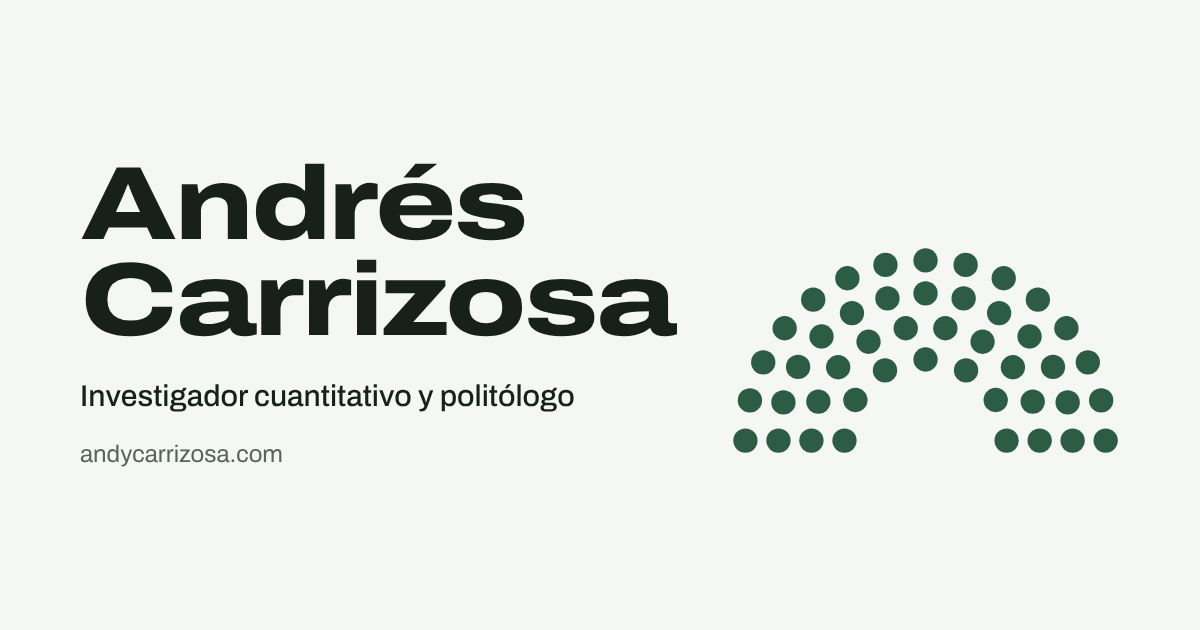
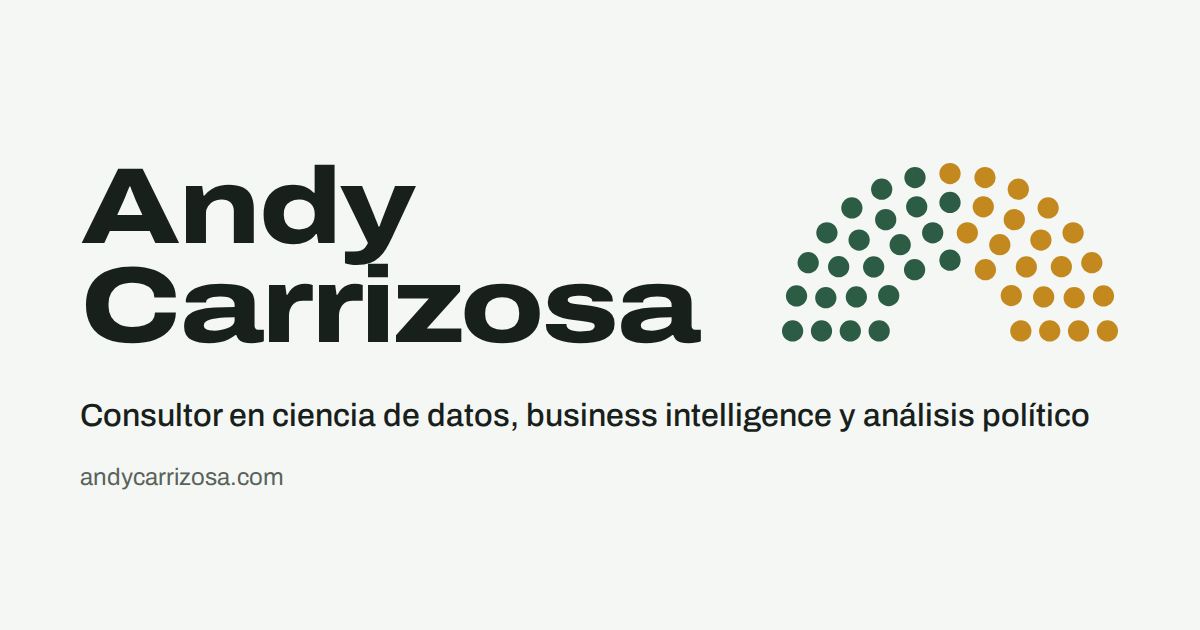
fix english landing as well

Changed region(s): [[0.0617, 0.2413, 0.9558, 0.7841], [0.0617, 0.2413, 0.5858, 0.5429]]

diff --git a/en/index.html b/en/index.html
@@ -4,7 +4,7 @@
   <meta charset="utf-8">
   <meta name="viewport" content="width=device-width, initial-scale=1">
   <title>Andy Carrizosa</title>
-  <meta name="description" content="Quantitative researcher and political scientist in Asunción. Data analysis, surveys and causal inference. Writes about parties, Congress and electoral rules in Paraguay.">
+  <meta name="description" content="Consultant in data science, business intelligence, and political analysis. Machine learning models for companies and data-driven legislative analysis.">
   <link rel="canonical" href="https://www.andycarrizosa.com/en/">
   <link rel="alternate" hreflang="en" href="https://www.andycarrizosa.com/en/">
   <link rel="alternate" hreflang="es" href="https://www.andycarrizosa.com/">
@@ -14,9 +14,9 @@
   <link rel="stylesheet" href="../assets/site.css">
   <meta property="og:type" content="profile">
   <meta property="og:title" content="Andy Carrizosa">
-  <meta property="og:description" content="Quantitative researcher and political scientist in Asunción. Blog, articles and publications on parties, Congress and electoral rules in Paraguay.">
+  <meta property="og:description" content="Consultant in data science, business intelligence, and political analysis. Machine learning models for companies and data-driven legislative analysis.">
   <meta property="og:url" content="https://www.andycarrizosa.com/en/">
-  <meta property="og:image" content="https://www.andycarrizosa.com/assets/og.png">
+  <meta property="og:image" content="https://www.andycarrizosa.com/assets/og-en.png">
   <meta property="og:locale" content="en_US">
   <meta name="twitter:card" content="summary_large_image">
   <script type="application/ld+json">
@@ -26,8 +26,7 @@
     "name": "Andy Carrizosa",
     "alternateName": "Andy Carrizosa",
     "url": "https://www.andycarrizosa.com/en/",
-    "jobTitle": "Quantitative Researcher",
-    "worksFor": { "@type": "Organization", "name": "ITTI" },
+    "jobTitle": "Consultant in data science, business intelligence, and political analysis",
     "address": { "@type": "PostalAddress", "addressLocality": "Asunción", "addressCountry": "PY" },
     "alumniOf": [
       { "@type": "CollegeOrUniversity", "name": "Rice University" },
@@ -43,7 +42,7 @@
   }
   </script>
 </head>
-<body>
+<body class="inicio">
   <a class="saltar" href="#content">Skip to content</a>
 
   <header class="envoltura cabecera">
@@ -62,7 +61,6 @@
       </a>
     </nav>
     <nav class="nav" aria-label="Main">
-      <a href="../en/index.html">Home</a>
       <a href="../publications.html">Academic Publications</a>
       <a href="EN_Carrizosa_Resume.pdf" target="_blank" rel="noopener">CV</a>
       <a href="../index.html" lang="es" hreflang="es">Español</a>
@@ -70,7 +68,7 @@
   </header>
 
   <main id="content">
-    <section class="envoltura portada" aria-labelledby="t-name">
+    <section class="envoltura portada portada-paneles" aria-labelledby="t-name">
       <h1 class="nombre" id="t-name"><span>Andy</span> <span>Carrizosa</span></h1>
       <figure class="hemiciclo">
         <svg viewBox="-216 -216 432 232" role="img" aria-labelledby="t-hemicycle">
@@ -124,13 +122,59 @@
       </figure>
       <script src="../assets/hemiciclo.js"></script>
       <div class="portada-texto">
-        <p class="rol">Data, politics, finance, and economics. Based in Asunción, Paraguay.</p>
-        <p class="entrada">I use data to tell stories. I am interested in politics, economics, and the financial system. I'm focused on analyzing Paraguay, the United States, and Latin America. I run <a href="../legislab/index.html">LegisLab</a>, a site focused on bringing together legislative data for the country and the region.</p>
-        <p class="entrada">I have a Ph.D. in Political Science from Rice University. I have private-sector experience in market research, financial research, user experience research, and Big Data analysis using Python, R, and SQL.</p>
-        <div class="acciones">
-          <a class="boton boton-principal" href="../blog.html" hreflang="es">News articles (Spanish)</a>
-          <a class="boton boton-secundario" href="../legislab/index.html">Data at LegisLab</a>
-        </div>
+        <p class="rol">Consultant in data science, business intelligence, and political analysis.</p>
+      </div>
+      <div class="paneles">
+        <section class="panel panel-datos" aria-labelledby="t-data">
+          <h2 id="t-data">Data science and business intelligence</h2>
+          <p class="panel-intro">I build machine learning models that learn from the past to anticipate what comes next.</p>
+          <ul class="areas">
+            <li class="area">
+              <svg class="area-icono" viewBox="0 0 60 46" aria-hidden="true" focusable="false"><circle cx="15.8" cy="4" r="3.75"/><circle cx="6.3" cy="7.1" r="3.75"/><circle cx="20.1" cy="14" r="3.75"/><circle cx="10.8" cy="15.8" r="3.75"/><circle class="ocre" cx="50" cy="7.7" r="3.75"/><circle class="ocre" cx="40.1" cy="9.6" r="3.75"/><circle class="ocre" cx="53.8" cy="17.7" r="3.75"/><circle class="ocre" cx="43.8" cy="19" r="3.75"/><circle class="hoja" cx="30.1" cy="30.9" r="3.75"/><circle class="hoja" cx="20.1" cy="33.3" r="3.75"/><circle class="hoja" cx="35.1" cy="40.1" r="3.75"/><circle class="hoja" cx="25.1" cy="42" r="3.75"/></svg>
+              <h3>Customer segmentation</h3>
+              <p class="pregunta">What groups of customers do I have?</p>
+            </li>
+            <li class="area">
+              <svg class="area-icono" viewBox="0 0 60 46" aria-hidden="true" focusable="false"><circle cx="3.8" cy="16" r="3.75"/><circle cx="13.8" cy="16" r="3.75"/><circle cx="23.8" cy="16" r="3.75"/><circle cx="33.8" cy="16" r="3.75"/><circle cx="3.8" cy="27.3" r="3.75"/><circle cx="13.8" cy="27.3" r="3.75"/><circle cx="23.8" cy="27.3" r="3.75"/><circle cx="33.8" cy="27.3" r="3.75"/><circle cx="3.8" cy="38.6" r="3.75"/><circle cx="13.8" cy="38.6" r="3.75"/><circle cx="23.8" cy="38.6" r="3.75"/><circle cx="33.8" cy="38.6" r="3.75"/><circle class="ocre" cx="46.3" cy="17.3" r="3.75"/><circle class="ocre" cx="56.2" cy="7.4" r="3.75"/></svg>
+              <h3>Customer churn</h3>
+              <p class="pregunta">Which customers are about to leave?</p>
+            </li>
+            <li class="area">
+              <svg class="area-icono" viewBox="0 0 60 46" aria-hidden="true" focusable="false"><circle cx="3.8" cy="38.6" r="3.75"/><circle cx="11.3" cy="34.8" r="3.75"/><circle cx="18.8" cy="36.2" r="3.75"/><circle cx="26.3" cy="28.6" r="3.75"/><circle cx="33.8" cy="26.1" r="3.75"/><circle class="ocre" cx="41.3" cy="19.9" r="3.75"/><circle class="ocre" cx="48.8" cy="14.9" r="3.75"/><circle class="ocre" cx="56.2" cy="7.4" r="3.75"/></svg>
+              <h3>Sales forecasting</h3>
+              <p class="pregunta">How much will I sell next month?</p>
+            </li>
+            <li class="area">
+              <svg class="area-icono" viewBox="0 0 60 46" aria-hidden="true" focusable="false"><circle cx="3.8" cy="10.9" r="3.75"/><circle cx="15" cy="10.9" r="3.75"/><circle cx="26.2" cy="10.9" r="3.75"/><circle cx="48.6" cy="10.9" r="3.75"/><circle cx="3.8" cy="26" r="3.75"/><circle cx="15" cy="26" r="3.75"/><circle cx="26.2" cy="26" r="3.75"/><circle cx="37.4" cy="26" r="3.75"/><circle cx="48.6" cy="26" r="3.75"/><circle cx="3.8" cy="41" r="3.75"/><circle cx="15" cy="41" r="3.75"/><circle cx="26.2" cy="41" r="3.75"/><circle cx="37.4" cy="41" r="3.75"/><circle cx="48.6" cy="41" r="3.75"/><circle class="ocre" cx="37.4" cy="6.6" r="5.3"/></svg>
+              <h3>Anomaly detection</h3>
+              <p class="pregunta">Which transactions look unusual?</p>
+            </li>
+          </ul>
+          <p class="panel-pie">Private-sector experience in market, financial, and user experience research. I&nbsp;use&nbsp;Python,&nbsp;R,&nbsp;and&nbsp;SQL.</p>
+        </section>
+        <section class="panel panel-politica" aria-labelledby="t-politics">
+          <h2 id="t-politics">Political analysis</h2>
+          <p class="panel-intro">I use data to analyze politics in Paraguay, the United States, and Latin America.</p>
+          <ul class="areas">
+            <li class="area">
+              <svg class="area-icono" viewBox="0 0 60 46" aria-hidden="true" focusable="false"><circle cx="19.6" cy="35.4" r="3.75"/><circle cx="11.8" cy="35.4" r="3.75"/><circle cx="4" cy="35.4" r="3.75"/><circle cx="9" cy="20.1" r="3.75"/><circle cx="20.9" cy="19.6" r="3.75"/><circle cx="22" cy="10.7" r="3.75"/><circle cx="38" cy="10.7" r="3.75"/><circle class="ocre" cx="39.1" cy="19.6" r="3.75"/><circle class="ocre" cx="51" cy="20.1" r="3.75"/><circle class="ocre" cx="40.4" cy="35.4" r="3.75"/><circle class="ocre" cx="48.2" cy="35.4" r="3.75"/><circle class="ocre" cx="56" cy="35.4" r="3.75"/></svg>
+              <h3>Legislatures</h3>
+              <p class="pregunta">How do legislators align?</p>
+              <p>I run <a href="../legislab/index.html">LegisLab</a>, with data for Paraguay and the region.</p>
+            </li>
+            <li class="area">
+              <svg class="area-icono" viewBox="0 0 60 46" aria-hidden="true" focusable="false"><circle cx="3.8" cy="8" r="3.75"/><circle cx="16.9" cy="8" r="3.75"/><circle cx="30" cy="8" r="3.75"/><circle class="ocre" cx="43.1" cy="8" r="3.75"/><circle class="ocre" cx="56.2" cy="8" r="3.75"/><circle cx="3.8" cy="23" r="3.75"/><circle class="ocre" cx="16.9" cy="23" r="3.75"/><circle class="ocre" cx="30" cy="23" r="3.75"/><circle class="ocre" cx="43.1" cy="23" r="3.75"/><circle cx="56.2" cy="23" r="3.75"/><circle class="ocre" cx="3.8" cy="38" r="3.75"/><circle class="ocre" cx="16.9" cy="38" r="3.75"/><circle cx="30" cy="38" r="3.75"/><circle cx="43.1" cy="38" r="3.75"/><circle cx="56.2" cy="38" r="3.75"/></svg>
+              <h3>Strategy</h3>
+              <p class="pregunta">What could happen, and what is the best move?</p>
+              <p>I advise on strategy and political analysis.</p>
+            </li>
+          </ul>
+          <p class="panel-pie">I have a Ph.D. in Political Science from Rice University.</p>
+        </section>
+      </div>
+      <div class="acciones">
+        <a class="boton boton-principal" href="../blog.html" hreflang="es">News articles (Spanish)</a>
+        <a class="boton boton-secundario" href="../legislab/index.html">Data at LegisLab</a>
       </div>
     </section>
 

diff --git a/index.html b/index.html
@@ -4,7 +4,7 @@
   <meta charset="utf-8">
   <meta name="viewport" content="width=device-width, initial-scale=1">
   <title>Andy Carrizosa</title>
-  <meta name="description" content="Investigador cuantitativo y politólogo en Asunción. Análisis de datos, encuestas e inferencia causal. Escribe sobre partidos, el Congreso y las reglas electorales del Paraguay.">
+  <meta name="description" content="Consultor en ciencia de datos, business intelligence y análisis político. Modelos de machine learning para empresas y análisis legislativo con datos.">
   <link rel="canonical" href="https://www.andycarrizosa.com/">
   <link rel="alternate" hreflang="es" href="https://www.andycarrizosa.com/">
   <link rel="alternate" hreflang="en" href="https://www.andycarrizosa.com/en/">
@@ -14,7 +14,7 @@
   <link rel="stylesheet" href="assets/site.css">
   <meta property="og:type" content="profile">
   <meta property="og:title" content="Andy Carrizosa">
-  <meta property="og:description" content="Investigador cuantitativo y politólogo en Asunción. Blog, artículos y publicaciones sobre partidos, el Congreso y las reglas electorales del Paraguay.">
+  <meta property="og:description" content="Consultor en ciencia de datos, business intelligence y análisis político. Modelos de machine learning para empresas y análisis legislativo con datos.">
   <meta property="og:url" content="https://www.andycarrizosa.com/">
   <meta property="og:image" content="https://www.andycarrizosa.com/assets/og.png">
   <meta property="og:locale" content="es_PY">
@@ -26,8 +26,7 @@
     "name": "Andy Carrizosa",
     "alternateName": "Andy Carrizosa",
     "url": "https://www.andycarrizosa.com/",
-    "jobTitle": "Investigador cuantitativo",
-    "worksFor": { "@type": "Organization", "name": "ITTI" },
+    "jobTitle": "Consultor en ciencia de datos, business intelligence y análisis político",
     "address": { "@type": "PostalAddress", "addressLocality": "Asunción", "addressCountry": "PY" },
     "alumniOf": [
       { "@type": "CollegeOrUniversity", "name": "Rice University" },

diff --git a/publications.html b/publications.html
@@ -16,7 +16,7 @@
   <meta property="og:title" content="Academic publications by Andrés Carrizosa">
   <meta property="og:description" content="Book, articles and working papers on parties, legislatures and elections.">
   <meta property="og:url" content="https://www.andycarrizosa.com/publications.html">
-  <meta property="og:image" content="https://www.andycarrizosa.com/assets/og.png">
+  <meta property="og:image" content="https://www.andycarrizosa.com/assets/og-en.png">
   <meta property="og:locale" content="en_US">
   <meta name="twitter:card" content="summary_large_image">
 </head>
@@ -40,7 +40,6 @@
     </nav>
     <nav class="nav" aria-label="Main">
       <a href="en/index.html">Home</a>
-      <a href="blog.html" hreflang="es">News articles (Spanish)</a>
       <a href="publications.html" aria-current="page">Academic Publications</a>
       <a href="en/EN_Carrizosa_Resume.pdf" target="_blank" rel="noopener">CV</a>
       <a href="publicaciones.html" lang="es" hreflang="es">Español</a>
